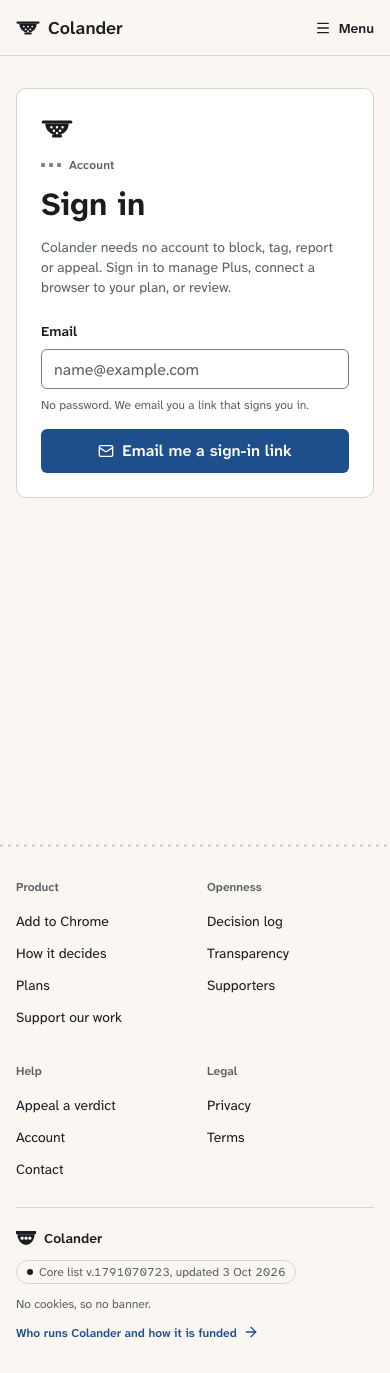
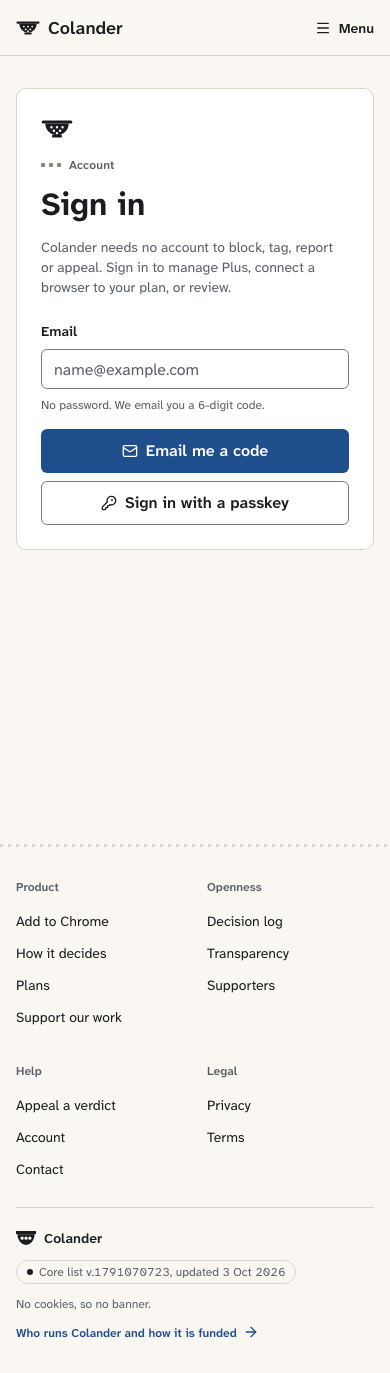
Send the admin host's site links to the main host, align the sign-in pages, and capture the new pages

Changed region(s): [[0.2769, 0.2753, 0.7385, 0.3977], [0.2462, 0.3059, 0.2769, 0.3365]]

diff --git a/web/tests/screenshots.spec.ts b/web/tests/screenshots.spec.ts
@@ -1,7 +1,7 @@
 // Full-page screenshots of every page, desktop 1440 and mobile 390, light and dark.
 // Run with `pnpm screenshots` (writes to screenshots/). Skipped in the normal test run.
 import { test } from '@playwright/test';
-import { mockApi, PLUS_ACCOUNT, STAFF, APPEAL, QUEUE, reviewSource } from './mocks.ts';
+import { mockApi, PLUS_ACCOUNT, STAFF, CURATOR, CURATOR_NEW, PASSKEYS, ME, PEOPLE, AUDIT, APPEAL, QUEUE, reviewSource } from './mocks.ts';
 
 test.skip(!process.env.SCREENSHOTS, 'Set SCREENSHOTS=1 to capture screenshots.');
 
@@ -44,17 +44,40 @@ const shots: Shot[] = [
 	{ name: 'supporters', path: '/supporters' },
 	{ name: 'transparency', path: '/transparency' },
 	{ name: 'account-signed-out', path: '/account' },
-	{ name: 'account-plus', path: '/account', setup: { 'GET /v1/account': { json: { account: PLUS_ACCOUNT } } } },
+	{
+		name: 'account-code',
+		path: '/account',
+		setup: { 'POST /v1/auth/code': { status: 204 } },
+		after: async (page) => {
+			await page.getByLabel('Email', { exact: true }).fill('maya@example.com');
+			await page.getByRole('button', { name: 'Email me a code' }).click();
+			await page.getByLabel('Code', { exact: true }).waitFor();
+		}
+	},
+	{
+		name: 'account-plus',
+		path: '/account',
+		setup: {
+			'GET /v1/account': { json: { account: { ...PLUS_ACCOUNT, passkey_count: 2 } } },
+			'GET /v1/account/passkeys': { json: { passkeys: PASSKEYS, current: 'pk_laptop' } }
+		}
+	},
 	{
 		name: 'account-staff',
 		path: '/account',
-		setup: { 'GET /v1/account': { json: { account: { ...STAFF, plan: PLUS_ACCOUNT.plan } } } }
+		setup: {
+			'GET /v1/account': { json: { account: { ...STAFF, plan: PLUS_ACCOUNT.plan } } },
+			'GET /v1/account/passkeys': { json: { passkeys: PASSKEYS.slice(0, 1), current: 'pk_laptop' } }
+		}
 	},
+	{ name: 'account-invite', path: '/account/invite#invite=inv_test', setup: { 'GET /v1/account': { json: { account: CURATOR_NEW } } } },
+	{ name: 'account-cancel', path: '/account/cancel#cancel-secret' },
+	{ name: 'console-passkey-needed', path: '/console', setup: { 'GET /v1/account': { json: { account: CURATOR_NEW } } } },
 	{
 		name: 'console',
 		path: '/console',
 		setup: {
-			'GET /v1/account': { json: { account: STAFF } },
+			'GET /v1/account': { json: { account: CURATOR } },
 			'GET /v1/review/queue': { json: { items: QUEUE, next_cursor: null } },
 			'GET /v1/review/sources/*': (c) => {
 				const [, , , , p, id] = c.path.split('/');
@@ -66,6 +89,24 @@ const shots: Shot[] = [
 			await page.getByRole('heading', { name: 'History Bites 24/7', level: 2 }).waitFor();
 		}
 	},
+	{
+		name: 'admin',
+		path: '/admin',
+		setup: {
+			'GET /v1/admin/me': { json: ME },
+			'GET /v1/review/queue': { json: { items: QUEUE, next_cursor: null } },
+			'GET /v1/review/sources/*': (c) => {
+				const [, , , , p, id] = c.path.split('/');
+				return { json: reviewSource(`${p}:${decodeURIComponent(id)}`) };
+			}
+		},
+		after: async (page) => {
+			await page.getByRole('button', { name: /Ancient Facts Daily/ }).click();
+			await page.getByRole('heading', { name: 'Ancient Facts Daily', level: 2 }).waitFor();
+		}
+	},
+	{ name: 'admin-people', path: '/admin/people', setup: { 'GET /v1/admin/me': { json: ME }, 'GET /v1/admin/people': { json: { people: PEOPLE } } } },
+	{ name: 'admin-audit', path: '/admin/audit', setup: { 'GET /v1/admin/me': { json: ME }, 'GET /v1/admin/audit': { json: { entries: AUDIT, next_cursor: null } } } },
 	{ name: 'privacy', path: '/privacy' },
 	{ name: 'terms', path: '/terms' },
 	{ name: 'not-found', path: '/no-such-page' }

diff --git a/web/src/lib/components/SiteHeader.svelte b/web/src/lib/components/SiteHeader.svelte
@@ -12,6 +12,7 @@ Escape closes it and focus returns to Menu.
 	import X from '@lucide/svelte/icons/x';
 	import { ColanderMark } from '@colander/shared';
 	import Button from '@colander/shared/components/ui/button/button.svelte';
+	import { siteOrigin } from '#lib/site.ts';
 	import SendToComputer from './SendToComputer.svelte';
 
 	/** The app title in place of the site navigation: the review or admin console. */
@@ -24,6 +25,8 @@ Escape closes it and focus returns to Menu.
 		{ href: '/plans', label: 'Plans' }
 	];
 
+	/** On the admin host the site's links lead to the main host. */
+	const site = $derived(siteOrigin(page.url));
 	let sheet = $state<HTMLDialogElement>();
 	const current = (href: string) => page.url.pathname === href || page.url.pathname.startsWith(href + '/');
 	const close = () => sheet?.close();
@@ -32,7 +35,7 @@ Escape closes it and focus returns to Menu.
 
 <header class="site-header" class:app>
 	<div class="cl-container bar">
-		<a class="home" href="/"><ColanderMark size={24} /><span class="word">Colander</span></a>
+		<a class="home" href="{site}/"><ColanderMark size={24} /><span class="word">Colander</span></a>
 		{#if app}<span class="app-title">{app}</span>{/if}
 
 		{#if !app}
@@ -46,7 +49,7 @@ Escape closes it and focus returns to Menu.
 		{/if}
 
 		<div class="end">
-			<a class="account" href="/account" aria-current={current('/account') ? 'page' : undefined}>Account</a>
+			<a class="account" href="{site}/account" aria-current={current('/account') ? 'page' : undefined}>Account</a>
 			{#if !app}<Button variant="primary" size="lg" href={PUBLIC_STORE_URL} class="install">Add to Chrome</Button>{/if}
 			<button type="button" class="menu-btn" aria-haspopup="dialog" onclick={() => sheet?.showModal()}>
 				<MenuIcon size={16} aria-hidden="true" />Menu
@@ -57,13 +60,13 @@ Escape closes it and focus returns to Menu.
 
 <dialog class="sheet" bind:this={sheet} aria-label="Menu">
 	<div class="cl-container sheet-bar">
-		<a class="home" href="/" onclick={close}><ColanderMark size={24} /><span class="word">Colander</span></a>
+		<a class="home" href="{site}/" onclick={close}><ColanderMark size={24} /><span class="word">Colander</span></a>
 		<button type="button" class="menu-btn" onclick={close}><X size={16} aria-hidden="true" />Close</button>
 	</div>
 	<nav class="cl-container sheet-nav" aria-label="Menu">
 		<ul>
 			{#each [...links, { href: '/account', label: 'Account' }] as l (l.href)}
-				<li><a href={l.href} aria-current={current(l.href) ? 'page' : undefined} onclick={close}>{l.label}</a></li>
+				<li><a href={site + l.href} aria-current={current(l.href) ? 'page' : undefined} onclick={close}>{l.label}</a></li>
 			{/each}
 		</ul>
 	</nav>

diff --git a/web/src/lib/components/SiteFooter.svelte b/web/src/lib/components/SiteFooter.svelte
@@ -1,5 +1,5 @@
 <!--
-@component SiteFooter: the footer CTA (except on /s, /appeal, /console and /account), a
+@component SiteFooter: the footer CTA (except on /s, /appeal, /console, /account and /admin), a
 perforation row, four link columns and a bottom row with the mark, the live list badge and the
 cookie line. Support links never appear on source or appeal pages: no creator is asked for money
 while their case is open.
@@ -11,10 +11,13 @@ while their case is open.
 	import { live } from '#lib/live.svelte.ts';
 	import ArrowLink from './ArrowLink.svelte';
 	import InstallButton from './InstallButton.svelte';
+	import { siteOrigin } from '#lib/site.ts';
 
 	const path = $derived(page.url.pathname);
 	const creatorPage = $derived(/^\/(s|appeal)(\/|$)/.test(path));
-	const cta = $derived(!creatorPage && !/^\/(console|account)(\/|$)/.test(path));
+	const cta = $derived(!creatorPage && !/^\/(console|account|admin)(\/|$)/.test(path));
+	/** On the admin host the site's links lead to the main host. */
+	const site = $derived(siteOrigin(page.url));
 
 	const columns = $derived([
 		{
@@ -69,7 +72,7 @@ while their case is open.
 			<nav aria-labelledby="foot-{c.title}">
 				<h2 id="foot-{c.title}">{c.title}</h2>
 				<ul>
-					{#each c.links as l (l.label)}<li><a href={l.href}>{l.label}</a></li>{/each}
+					{#each c.links as l (l.label)}<li><a href={l.href.startsWith('/') ? site + l.href : l.href}>{l.label}</a></li>{/each}
 				</ul>
 			</nav>
 		{/each}
@@ -79,7 +82,7 @@ while their case is open.
 			<span class="brand"><ColanderMark size={20} /><span class="word">Colander</span></span>
 			<LiveBadge sequence={live.stats?.list_sequence} updatedAt={live.stats?.list_updated_at} now={live.now ?? undefined} />
 			<span class="note">No cookies, so no banner.</span>
-			<span class="who"><ArrowLink href="/transparency" size="sm">Who runs Colander and how it is funded</ArrowLink></span>
+			<span class="who"><ArrowLink href="{site}/transparency" size="sm">Who runs Colander and how it is funded</ArrowLink></span>
 		</div>
 	</div>
 </footer>

diff --git a/web/src/lib/components/AccountSecurity.svelte b/web/src/lib/components/AccountSecurity.svelte
@@ -111,7 +111,7 @@ email code; that waits 72 hours. Reviewer accounts get their first passkey throu
 	}
 </script>
 
-<section class="uin-card uin-card-lg uin-card-pad section-card" aria-labelledby="signin-title">
+<section class="uin-card uin-card-lg uin-card-pad section-card" class:tall={!reviewer} aria-labelledby="signin-title">
 	<h2 class="cl-title" id="signin-title">Sign-in</h2>
 	<p class="cl-body cl-muted">
 		{account.session?.method === 'passkey' ? 'You signed in with a passkey.' : 'You signed in with an email code.'}
@@ -168,7 +168,7 @@ email code; that waits 72 hours. Reviewer accounts get their first passkey throu
 		<Button variant="quiet" size="xl" onclick={everywhere}><LogOut size={16} aria-hidden="true" />Sign out everywhere</Button>
 		<p class="cl-caption cl-muted">
 			Ends every session and disconnects the side panel. Right after a passkey sign-in, it also removes every other passkey, so one you
-			do not recognise cannot sign in again.
+			do not recognize cannot sign in again.
 		</p>
 	</div>
 </section>
@@ -218,5 +218,16 @@ email code; that waits 72 hours. Reviewer accounts get their first passkey throu
 		gap: var(--cl-s1);
 		padding-top: var(--cl-s3);
 		border-top: 1px solid var(--cl-border);
+	}
+	/* The text lines up with the caption; the 16px is the xl button's side padding. */
+	.everywhere > :global(.uin-btn) {
+		margin-inline-start: -16px;
+	}
+	/* In the account page's two columns a member's sign-in card sits beside Profile and Your data;
+	   a reviewer's page has the Review card, which fills that row already. */
+	@media (min-width: 1024px) {
+		.tall {
+			grid-row: span 2;
+		}
 	}
 </style>

diff --git a/web/src/routes/admin/+layout.svelte b/web/src/routes/admin/+layout.svelte
@@ -10,6 +10,7 @@ authority, people and roles, and for admins the audit log.
 	import AuthCard from '#lib/components/AuthCard.svelte';
 	import Loading from '#lib/components/Loading.svelte';
 	import { admin, loadMe, may } from '#lib/admin.svelte.ts';
+	import { siteOrigin } from '#lib/site.ts';
 
 	let { children } = $props();
 	onMount(loadMe);
@@ -37,7 +38,7 @@ authority, people and roles, and for admins the audit log.
 					? 'The admin console is for Colander staff. Curators review on the main site.'
 					: 'The admin console opens after Cloudflare Access checks your staff identity and security key.'}
 			</p>
-			<a href="https://getcolander.com/console">Open the review console for curators</a>
+			<a href="{siteOrigin(page.url)}/console">Open the review console for curators</a>
 		</div>
 	</AuthCard>
 {:else}

diff --git a/e2e/tests/08-auth.spec.ts b/e2e/tests/08-auth.spec.ts
@@ -77,6 +77,8 @@ test('staff work on the admin host through Access, and its token opens nothing o
 	await adminSignIn(page, ADMIN, '/admin/audit');
 	await expect(page.getByRole('heading', { level: 1, name: 'Audit log' })).toBeVisible();
 	await expect(page.getByRole('row').filter({ hasText: 'role changed' }).first()).toBeVisible();
+	// The site's own links leave the admin host for the main one.
+	await expect(page.getByRole('banner').getByRole('link', { name: 'Account' })).toHaveAttribute('href', `${ORIGIN}/account`);
 	await page.screenshot({ path: 'screenshots/admin-audit.png', animations: 'disabled' });
 
 	// A member's identity gets no staff authority there.

diff --git a/web/src/lib/site.ts b/web/src/lib/site.ts
@@ -1,0 +1,12 @@
+/**
+ * Where links to the public site point. On the admin host they leave it for the main host, since
+ * the admin host serves only the admin console: admin.getcolander.com → getcolander.com,
+ * staging-admin.getcolander.com → staging.getcolander.com, admin.localhost:8787 → localhost:8787.
+ * Everywhere else '' keeps them relative.
+ */
+export function siteOrigin(url: Pick<URL, 'hostname' | 'origin'>): string {
+	if (!/^(staging-)?admin\./.test(url.hostname)) return '';
+	const main = new URL(url.origin);
+	main.hostname = url.hostname.replace(/^staging-admin\./, 'staging.').replace(/^admin\./, '');
+	return main.origin;
+}

diff --git a/web/src/lib/components/CodeForm.svelte b/web/src/lib/components/CodeForm.svelte
@@ -125,6 +125,8 @@ offers a new one.
 		flex-wrap: wrap;
 		gap: var(--cl-s2);
 		margin-top: calc(-1 * var(--cl-s2));
+		/* The text lines up with the field; the 14px is the lg button's side padding. */
+		margin-inline-start: -14px;
 	}
 	strong {
 		overflow-wrap: anywhere;

diff --git a/web/src/routes/admin/people/+page.svelte b/web/src/routes/admin/people/+page.svelte
@@ -213,10 +213,11 @@ permission table again.
 </Dialog>
 
 <style>
+	/* One column of at most 960px, starting at the heading's edge. */
 	.people {
 		display: grid;
+		grid-template-columns: minmax(0, 960px);
 		gap: 24px;
-		max-width: 960px;
 	}
 	.card {
 		display: grid;
